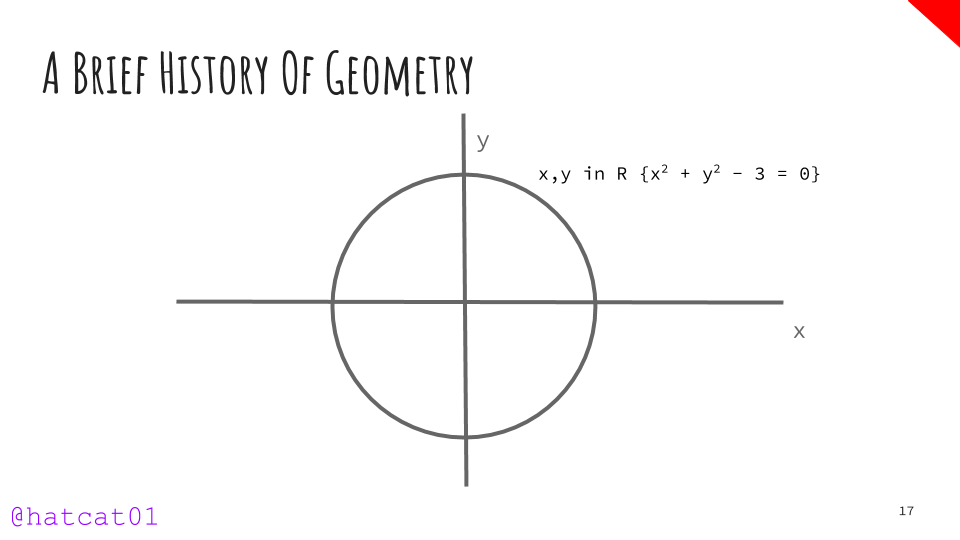
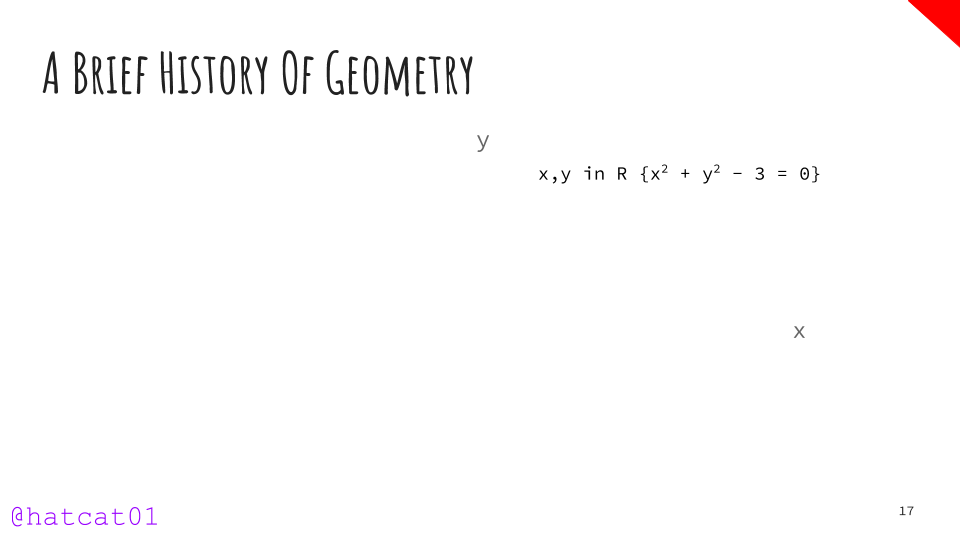
Slide 17 ("Circle")

diff --git a/StPetersburg/Circle.cpp b/StPetersburg/Circle.cpp
@@ -36,24 +36,56 @@ namespace
 
 		m_bg.render(uos);
 
-		auto path = path_builder{};
-		path.clear();
-		path.new_figure(point_2d{ 960.f, 600.f });
+		// Draw the axes, then draw the line. x = 180 -> 1710, y = 970 -> 230, line = 665,970 -> 1035, 230
+		auto x_axis = path_builder{};
+		x_axis.clear();
+
+		auto y_axis = path_builder{};
+		y_axis.clear();
+
+		auto circle_path = path_builder{};
+		circle_path.clear();
+		circle_path.new_figure(point_2d{ 1180.f, 600.f });
+
+		auto axis_brush = brush{ rgba_color::cornflower_blue };
+		auto line_brush = brush{ rgba_color::green };
+
 		if (time_in_slide <= 1000)
 		{
-			path.line(point_2d{ 960.f + ((1310.f - 960.f) * time_in_slide / 1000), 600.f });
+			auto fraction = (time_in_slide) / 1000.f;
+
+			auto x_delta = 765.f * fraction;
+			x_axis.new_figure(point_2d{ 945.f - x_delta, 600.f });
+			x_axis.line(point_2d{ 945.f + x_delta, 600.f });
+
+			auto y_delta = 370.f * fraction;
+			y_axis.new_figure(point_2d{ 930.f, 600.f - y_delta });
+			y_axis.line(point_2d{ 930.f, 600.f + y_delta });
 		}
-		else if (time_in_slide <= 3000)
+		else if (time_in_slide <= 2000)
 		{
-			path.line(point_2d{ 1310.f, 600.f });
-			path.arc(point_2d{ 350.f, 350.f }, two_pi<float> * (time_in_slide - 1000) / 2000, two_pi<float>);
+			x_axis.new_figure(point_2d{ 180.f, 600.f });
+			x_axis.line(point_2d{ 1710.f, 600.f });
+
+			y_axis.new_figure(point_2d{ 930.f, 230.f });
+			y_axis.line(point_2d{ 930.f, 970.f });
+
+			auto fraction = (time_in_slide - 1000.f) / 1000.f;
+			circle_path.arc(point_2d{ 250.f, 250.f }, two_pi<float> * fraction, two_pi<float>);
 		}
 		else
 		{
-			path.line(point_2d{ 1310.f, 600.f });
-			path.arc(point_2d{ 350.f, 350.f }, two_pi<float>, two_pi<float>);
+			x_axis.new_figure(point_2d{ 180.f, 600.f });
+			x_axis.line(point_2d{ 1710.f, 600.f });
+
+			y_axis.new_figure(point_2d{ 930.f, 230.f });
+			y_axis.line(point_2d{ 930.f, 970.f });
+
+			circle_path.arc(point_2d{ 250.f, 250.f }, two_pi<float>, two_pi<float>);
 		}
-		uos.stroke(brush{ rgba_color::cornflower_blue }, path, std::nullopt, stroke_props{ 4 });
+		uos.stroke(axis_brush, x_axis, std::nullopt, stroke_props{ 4 });
+		uos.stroke(axis_brush, y_axis, std::nullopt, stroke_props{ 4 });
+		uos.stroke(line_brush, circle_path, std::nullopt, stroke_props{ 4 });
 	}
 
 	bool circle::exit()

diff --git a/StPetersburg/PictureSlide.cpp b/StPetersburg/PictureSlide.cpp
@@ -59,7 +59,7 @@ namespace
 	//picture_slide s014{ show::presentation::SLIDE_014, pres::res + "Geometry St Petersburg (14).png" }; // StraightLine
 	//picture_slide s015{ show::presentation::SLIDE_015, pres::res + "Geometry St Petersburg (15).png" }; // StraightLine2
 	picture_slide s016{ show::presentation::SLIDE_016, pres::res + "Geometry St Petersburg (16).png" };
-	picture_slide s017{ show::presentation::SLIDE_017, pres::res + "Geometry St Petersburg (17).png" };
+	//picture_slide s017{ show::presentation::SLIDE_017, pres::res + "Geometry St Petersburg (17).png" }; // Circle
 	picture_slide s018{ show::presentation::SLIDE_018, pres::res + "Geometry St Petersburg (18).png" };
 	picture_slide s019{ show::presentation::SLIDE_019, pres::res + "Geometry St Petersburg (19).png" };
 	picture_slide s020{ show::presentation::SLIDE_020, pres::res + "Geometry St Petersburg (20).png" };
